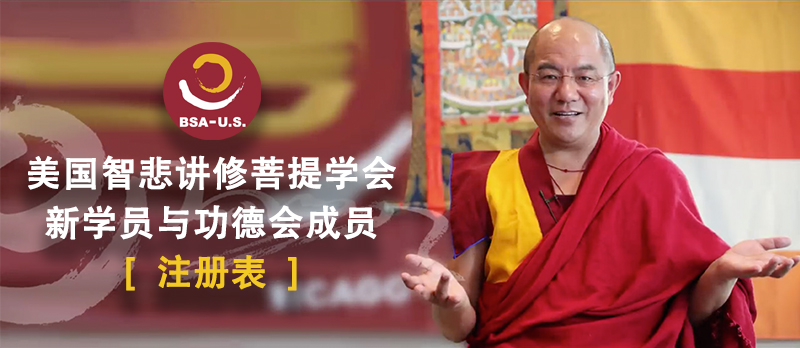
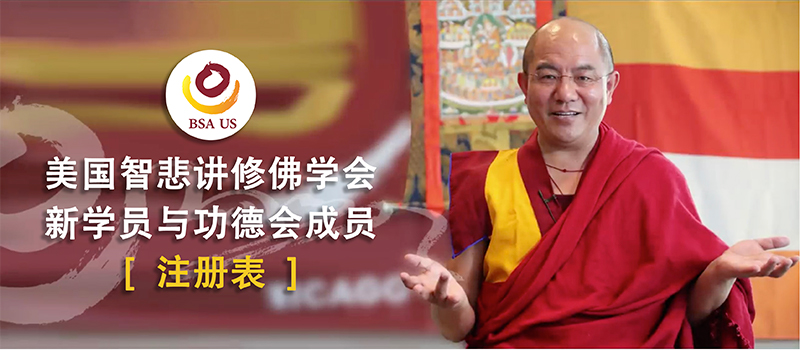
rename organization

diff --git a/register.html b/register.html
@@ -3,7 +3,7 @@
 <head>
 <meta charset="UTF-8">
 <link rel="stylesheet" type="text/css" href="style.css?tag=201805202254">
-<title>美国智悲讲修菩提学会注册</title>
+<title>美国智悲讲修佛学会注册</title>
 </head>
 
 <body class="center register-back">
@@ -23,13 +23,13 @@
         <div>
           <a class="register-entry bodhi-class" href="register2.html?tag=20190120#class"></a>
           <div class="center-align">
-            <a href="php/redirect.php?url=http://www.zhibeifw.com" target="_blank">菩提学会简介</a>
+            <a href="php/redirect.php?url=http://www.zhibeifw.com" target="_blank">佛学会简介</a>
           </div>
         </div>
         <div>
           <a class="register-entry bodhi-merit" href="register2.html?tag=20190120#merit"></a>
           <div class="center-align">
-            <a href="intro_m.html" target="_blank">菩提功德会简介</a>
+            <a href="intro_m.html" target="_blank">功德会简介</a>
           </div>
         </div>
       </div>

diff --git a/js/setup_tasks/setup_tasks.html b/js/setup_tasks/setup_tasks.html
@@ -4,7 +4,7 @@
 	    <div class="header section-header">欢迎</div>
 	    <p>师兄，您好！</p>
       <p>
-        随喜您成功注册为美国智悲讲修菩提学会（BICW）的新成员！学会将会在5月安排共修时间和分班。
+        随喜您成功注册为美国智悲讲修佛学会（BICW）的新成员！学会将会在5月安排共修时间和分班。
         第一学期基础班课程《离幸福很近》和《找回最初的你》将于6月至11月，每周各1节课的进度完成。
         <a href="https://docs.google.com/document/d/1jc8W1ncfqGjYLcS4jgzrnleeO7c8wwb6gK_U1PTpRmo/edit?ts=58916019"
             target="_blank">

diff --git a/intro_m.html b/intro_m.html
@@ -81,7 +81,7 @@
 <li>（4）    对慈善等行善活动有兴趣。</li>
 </ul>
 
-报名联系方式(美国菩提学会BICW): <a href="register2.html#merit">功德会报名</a>
+报名联系方式(美国佛学会BICW): <a href="register2.html#merit">功德会报名</a>
 
 <h2>五、    其他</h2>
 <h3>1、    退会事宜</h3>

diff --git a/register2.html b/register2.html
@@ -3,7 +3,7 @@
 <head>
 <meta charset="UTF-8">
 <link rel="stylesheet" type="text/css" href="style.css?tag=201805202254">
-<title>美国智悲讲修菩提学会注册</title>
+<title>美国智悲讲修佛学会注册</title>
 <script type="text/javascript">
   var submitting = false;
 

diff --git a/js/payment/payment.html b/js/payment/payment.html
@@ -13,7 +13,7 @@
   </div>
   <div class="padded-element">
     <div>邮寄支票</div>
-	  <h3>美国智悲讲修菩提学会</h3>
+	  <h3>美国智悲讲修佛学会</h3>
 	  <address-editor user="user" with-contact="true"></address-editor>
   </div>
 </div>

diff --git a/js/invoice/invoice.html b/js/invoice/invoice.html
@@ -1,4 +1,4 @@
-<h1>美国智悲讲修菩提学会</h1>
+<h1>美国智悲讲修佛学会</h1>
 <address-editor user="user" with-contact="true"></address-editor>
 <a class="right" href="javascript:window.print()">Print</a>
 <hr>

diff --git a/php/add_columns.php b/php/add_columns.php
@@ -16,10 +16,11 @@ if (empty($_SESSION["user"])) {
 $medoo = get_medoo();
 
 function add_district_cfo($medoo) {
-  $medoo->update("districts", ["stock" => 1],
-      ["AND" => ["name" => "南加州", "stock" => 0]]);
   $results = $medoo->select("districts", "paypal_client_id");
   if (!empty($results)) return;
+
+  $medoo->update("districts", ["stock" => 1],
+      ["AND" => ["name" => "南加州", "stock" => 0]]);
 
   $sql = "ALTER TABLE districts
       ADD COLUMN cfo_name VARCHAR(20) CHARACTER SET utf8,
@@ -37,6 +38,15 @@ function add_district_cfo($medoo) {
       ADD COLUMN paypal_client_id VARCHAR(256);";
   $medoo->query($sql);
   echo get_db_error2($medoo);
+}
+
+function add_teacher_for_schedules($medoo) {
+  $results = $medoo->select("schedules", "teacher");
+  if (!empty($results)) return;
+
+  $medoo->query("ALTER TABLE schedules
+      ADD COLUMN teacher INT,
+      ADD FOREIGN KEY fk_teacher(teacher) REFERENCES users(id);");
 }
 
 add_district_cfo($medoo);
